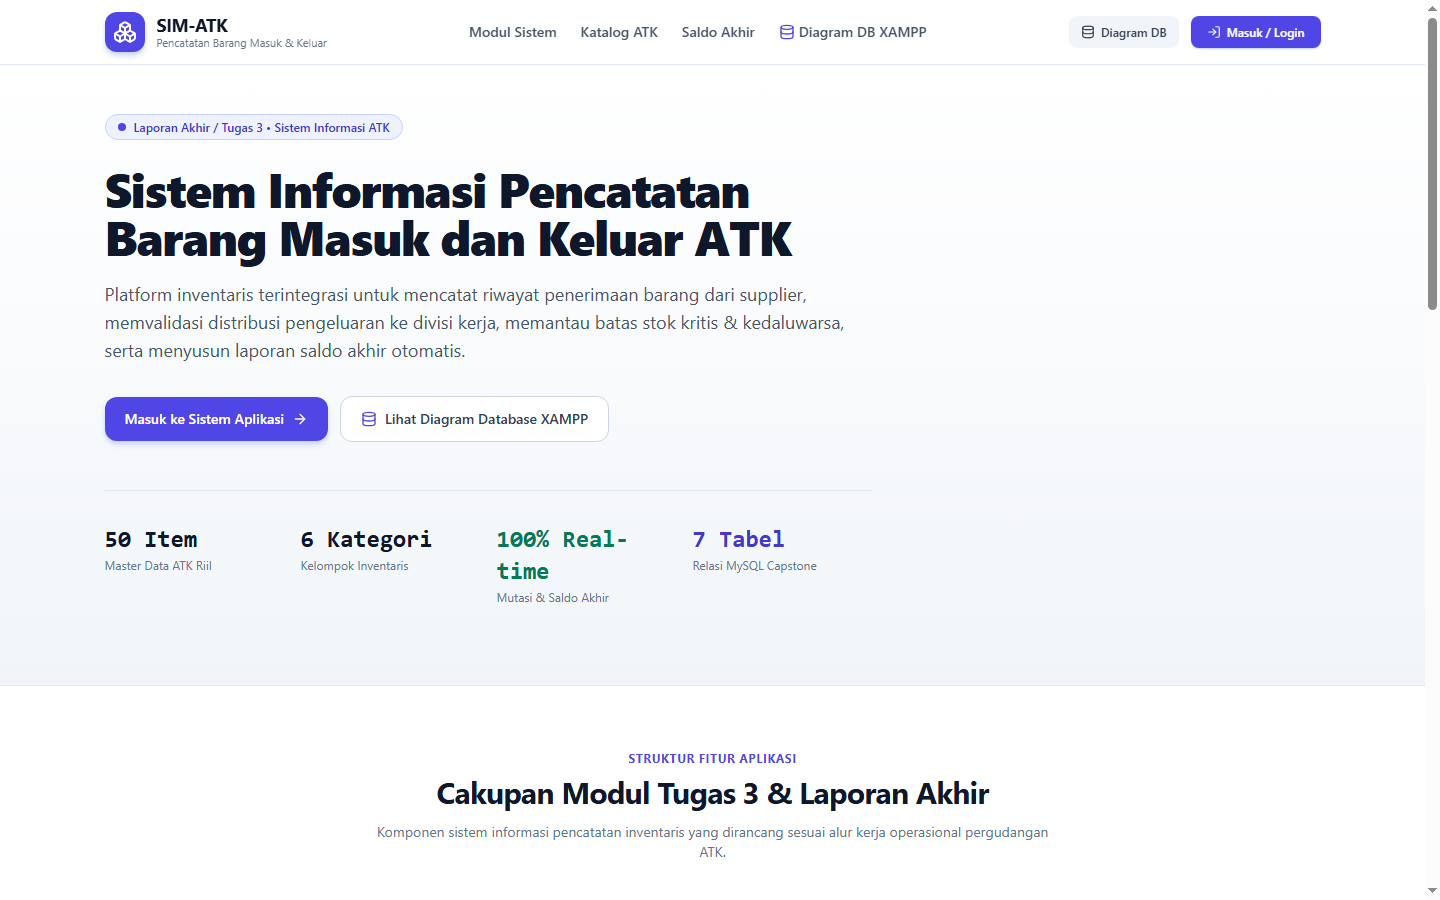
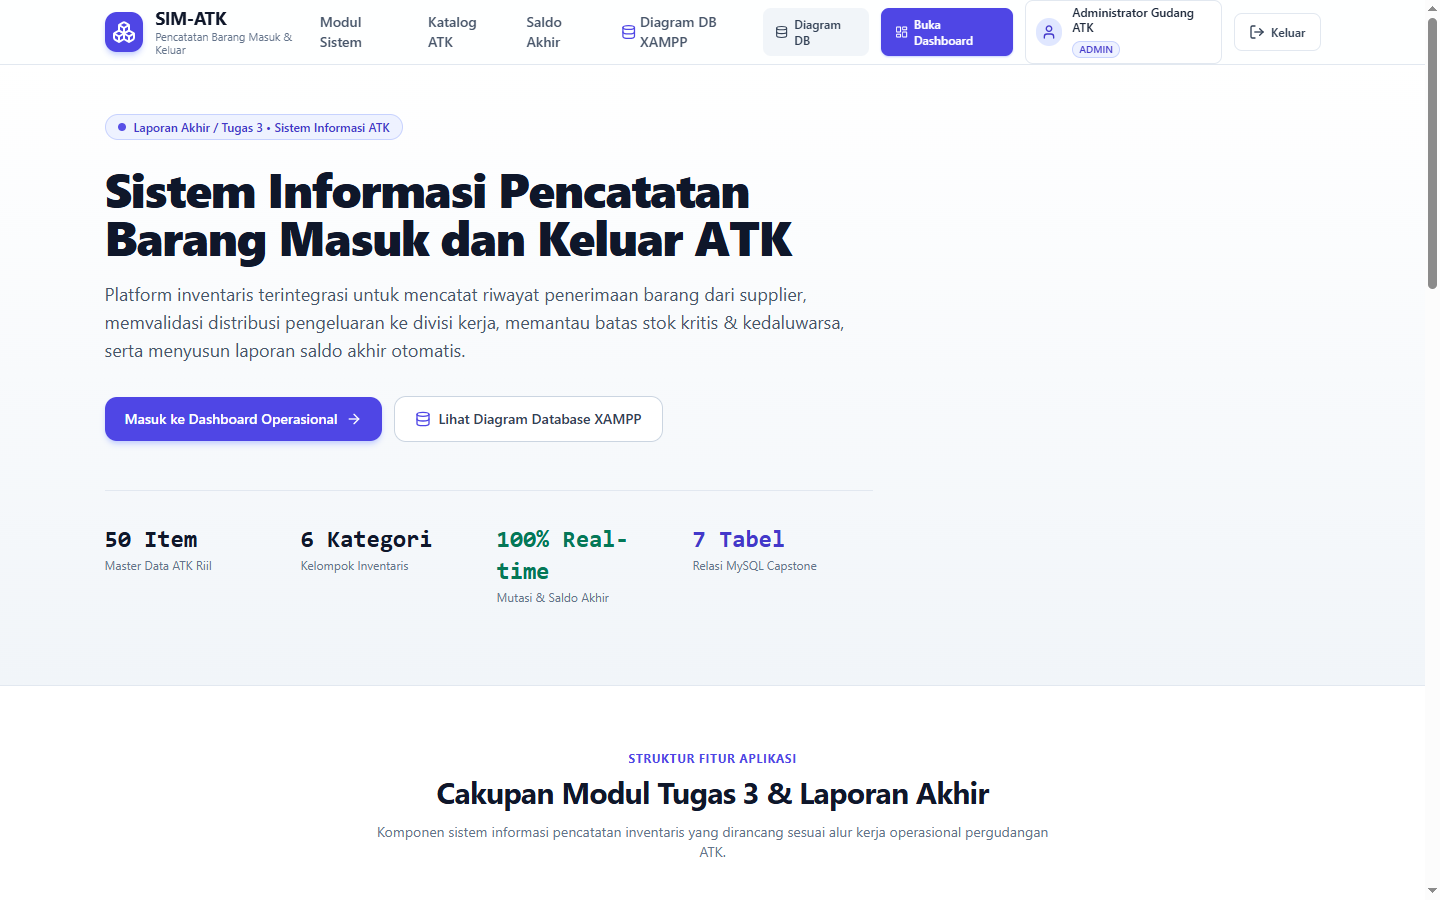
feat(ui): add logout button to landing page and keep landing page link solely in sidebar main menu

diff --git a/client/src/pages/home/LandingPage.tsx b/client/src/pages/home/LandingPage.tsx
@@ -14,8 +14,11 @@ import {
   LogIn,
   LayoutDashboard,
   Check,
+  LogOut,
+  User as UserIcon,
 } from "lucide-react";
 import { apiClient } from "../../api/client";
+import { useAuthStore } from "../../store/useAuthStore";
 
 interface QuickItem {
   id_barang: number;
@@ -33,7 +36,8 @@ export const LandingPage: React.FC = () => {
   const [items, setItems] = useState<QuickItem[]>([]);
   const [loadingItems, setLoadingItems] = useState(true);
   const [activeCategory, setActiveCategory] = useState<string>("Semua");
-  const isAuthenticated = Boolean(localStorage.getItem("token"));
+  const { user, token, logout } = useAuthStore();
+  const isAuthenticated = Boolean(token);
 
   useEffect(() => {
     const fetchQuickItems = async () => {
@@ -102,13 +106,44 @@ export const LandingPage: React.FC = () => {
                 <span>Diagram DB</span>
               </Link>
               {isAuthenticated ? (
-                <Link
-                  to="/dashboard"
-                  className="inline-flex items-center gap-1.5 px-4 py-2 text-xs font-semibold text-white bg-indigo-600 hover:bg-indigo-700 rounded-lg shadow-sm shadow-indigo-200 transition-colors"
-                >
-                  <LayoutDashboard className="h-3.5 w-3.5" />
-                  <span>Buka Dashboard</span>
-                </Link>
+                <>
+                  <Link
+                    to="/dashboard"
+                    className="inline-flex items-center gap-1.5 px-3.5 py-2 text-xs font-semibold text-white bg-indigo-600 hover:bg-indigo-700 rounded-lg shadow-sm shadow-indigo-200 transition-colors"
+                  >
+                    <LayoutDashboard className="h-3.5 w-3.5" />
+                    <span>Buka Dashboard</span>
+                  </Link>
+
+                  {user && (
+                    <div className="hidden sm:flex items-center gap-2.5 px-2.5 py-1 rounded-lg border border-slate-200 bg-white">
+                      <div className="flex h-7 w-7 items-center justify-center rounded-full bg-indigo-100 text-indigo-700">
+                        <UserIcon className="h-4 w-4" />
+                      </div>
+                      <div className="text-left">
+                        <p className="text-xs font-medium text-slate-800 leading-tight">{user.nama}</p>
+                        <span
+                          className={`inline-block text-[10px] font-semibold uppercase px-1.5 py-0.2 rounded-full ${
+                            user.role === "admin"
+                              ? "bg-indigo-50 text-indigo-700 border border-indigo-200"
+                              : "bg-emerald-50 text-emerald-700 border border-emerald-200"
+                          }`}
+                        >
+                          {user.role}
+                        </span>
+                      </div>
+                    </div>
+                  )}
+
+                  <button
+                    onClick={() => logout()}
+                    title="Keluar dari akun"
+                    className="flex min-h-[38px] items-center gap-1.5 rounded-lg border border-slate-200 bg-white px-3.5 py-2 text-xs font-medium text-slate-700 hover:bg-red-50 hover:text-red-700 hover:border-red-200 transition-colors focus:outline-none focus:ring-2 focus:ring-red-500"
+                  >
+                    <LogOut className="h-4 w-4" />
+                    <span>Keluar</span>
+                  </button>
+                </>
               ) : (
                 <Link
                   to="/login"

diff --git a/client/src/pages/dashboard/DashboardPage.tsx b/client/src/pages/dashboard/DashboardPage.tsx
@@ -12,7 +12,6 @@ import {
   ArrowRight,
   TrendingUp,
   Calendar,
-  Home,
 } from "lucide-react";
 import { useAuthStore } from "../../store/useAuthStore";
 
@@ -72,48 +71,29 @@ export const DashboardPage: React.FC = () => {
       {/* Page Header */}
       <div className="flex flex-col sm:flex-row sm:items-center sm:justify-between gap-4">
         <div>
-          <div className="flex items-center gap-2 mb-1.5">
-            <Link
-              to="/"
-              className="inline-flex items-center gap-1.5 text-xs font-semibold text-indigo-600 hover:text-indigo-800 transition-colors"
-            >
-              <Home className="h-3.5 w-3.5" />
-              <span>Kembali ke Halaman Depan</span>
-            </Link>
-          </div>
           <h1 className="text-2xl font-bold tracking-tight text-slate-900">Dashboard Inventaris</h1>
           <p className="text-sm text-slate-500">
             Ringkasan posisi stok, mutasi bulan berjalan, dan peringatan batas minimum.
           </p>
         </div>
-        <div className="flex flex-wrap items-center gap-2">
-          <Link
-            to="/"
-            title="Kembali ke Halaman Depan Sistem"
-            className="inline-flex items-center gap-1.5 rounded-lg border border-slate-300 bg-white px-3.5 py-2 text-xs font-semibold text-slate-700 hover:bg-slate-50 hover:text-indigo-600 transition-colors shadow-xs"
-          >
-            <Home className="h-4 w-4 text-indigo-600" />
-            <span>Halaman Depan</span>
-          </Link>
-          {isAdmin() && (
-            <>
-              <Link
-                to="/barang-masuk/baru"
-                className="inline-flex items-center gap-1.5 rounded-lg bg-emerald-600 px-3.5 py-2 text-xs font-semibold text-white hover:bg-emerald-700 transition-colors"
-              >
-                <ArrowDownToLine className="h-4 w-4" />
-                <span>Input Masuk</span>
-              </Link>
-              <Link
-                to="/barang-keluar/baru"
-                className="inline-flex items-center gap-1.5 rounded-lg bg-red-600 px-3.5 py-2 text-xs font-semibold text-white hover:bg-red-700 transition-colors"
-              >
-                <ArrowUpFromLine className="h-4 w-4" />
-                <span>Input Keluar</span>
-              </Link>
-            </>
-          )}
-        </div>
+        {isAdmin() && (
+          <div className="flex items-center gap-2">
+            <Link
+              to="/barang-masuk/baru"
+              className="inline-flex items-center gap-1.5 rounded-lg bg-emerald-600 px-3.5 py-2 text-xs font-semibold text-white hover:bg-emerald-700 transition-colors"
+            >
+              <ArrowDownToLine className="h-4 w-4" />
+              <span>Input Masuk</span>
+            </Link>
+            <Link
+              to="/barang-keluar/baru"
+              className="inline-flex items-center gap-1.5 rounded-lg bg-red-600 px-3.5 py-2 text-xs font-semibold text-white hover:bg-red-700 transition-colors"
+            >
+              <ArrowUpFromLine className="h-4 w-4" />
+              <span>Input Keluar</span>
+            </Link>
+          </div>
+        )}
       </div>
 
       {/* KPI Cards */}

diff --git a/client/src/components/layout/Navbar.tsx b/client/src/components/layout/Navbar.tsx
@@ -1,7 +1,7 @@
 import React from "react";
-import { LogOut, User as UserIcon, Menu, Home } from "lucide-react";
+import { LogOut, User as UserIcon, Menu } from "lucide-react";
 import { useAuthStore } from "../../store/useAuthStore";
-import { useNavigate, Link } from "react-router-dom";
+import { useNavigate } from "react-router-dom";
 
 interface NavbarProps {
   onToggleSidebar: () => void;
@@ -29,15 +29,7 @@ export const Navbar: React.FC<NavbarProps> = ({ onToggleSidebar }) => {
         <span className="text-sm font-semibold text-slate-700 md:hidden">Sistem ATK</span>
       </div>
 
-      <div className="flex items-center gap-3">
-        <Link
-          to="/"
-          title="Kembali ke Halaman Depan"
-          className="flex min-h-[44px] items-center gap-1.5 rounded-lg border border-slate-200 px-3 py-2 text-xs font-medium text-slate-700 hover:bg-slate-50 hover:text-indigo-600 transition-colors focus:outline-none focus:ring-2 focus:ring-indigo-500"
-        >
-          <Home className="h-4 w-4" />
-          <span className="hidden sm:inline">Halaman Depan</span>
-        </Link>
+      <div className="flex items-center gap-4">
 
         {user && (
           <div className="flex items-center gap-3">
